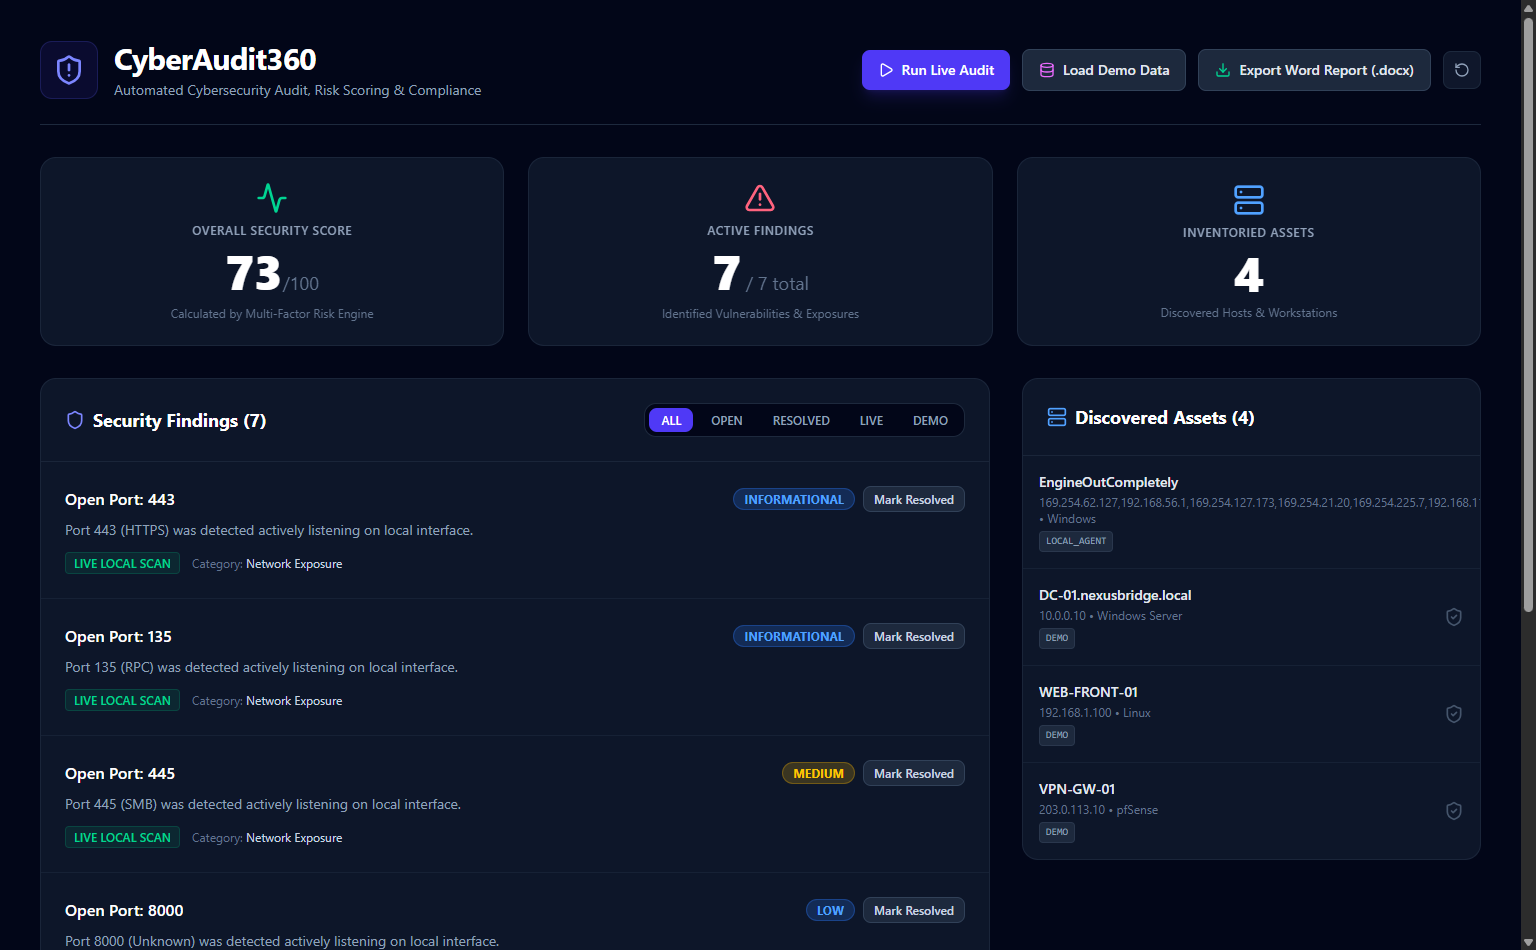
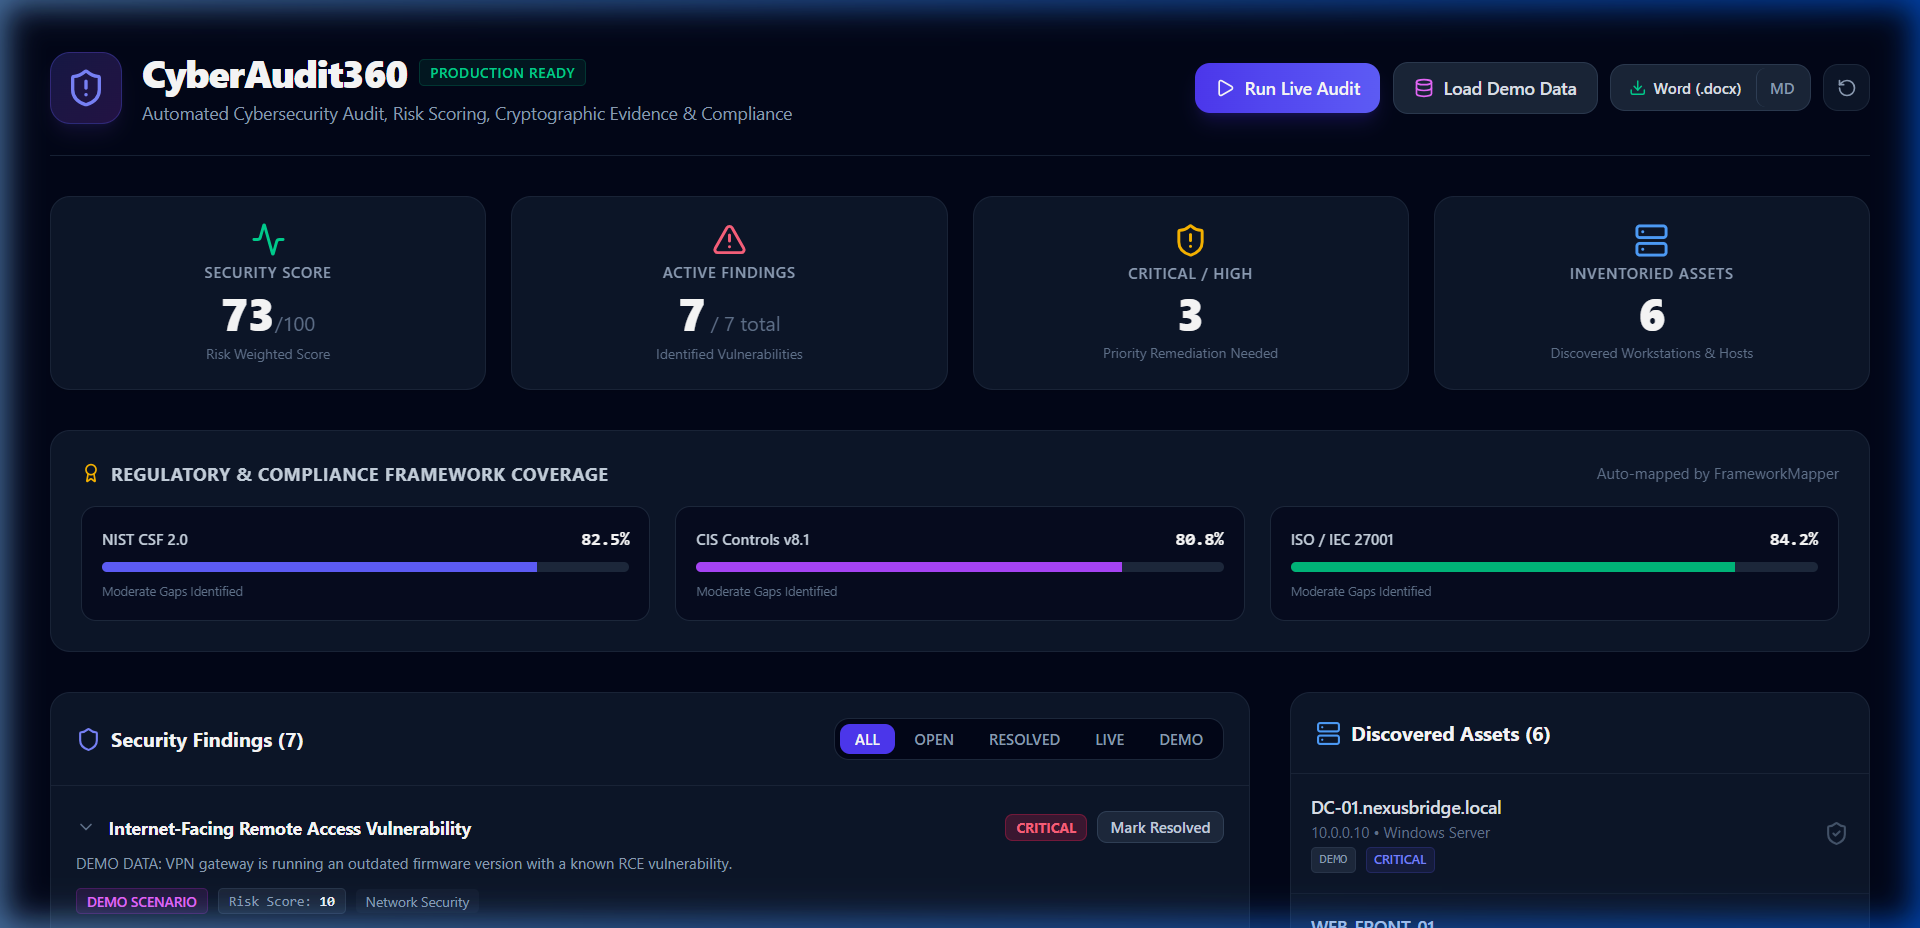
docs(readme): update dashboard screenshots and document modular architecture

diff --git a/README.md b/README.md
@@ -6,30 +6,40 @@
 [![React](https://img.shields.io/badge/frontend-React%2019%20%2B%20Vite-61DAFB.svg?logo=react&logoColor=black)](https://react.dev/)
 [![Tailwind CSS](https://img.shields.io/badge/styling-TailwindCSS%20v4-38B2AC.svg?logo=tailwindcss&logoColor=white)](https://tailwindcss.com/)
 [![Word Export](https://img.shields.io/badge/reporting-DOCX%20%26%20Markdown-2B579A.svg?logo=microsoftword&logoColor=white)](https://python-docx.readthedocs.io/)
-[![Tests](https://img.shields.io/badge/tests-7%20passing%20(pytest)-brightgreen.svg?logo=pytest&logoColor=white)](https://docs.pytest.org/)
+[![Tests](https://img.shields.io/badge/tests-24%20passing%20(pytest)-brightgreen.svg?logo=pytest&logoColor=white)](https://docs.pytest.org/)
 [![License: MIT](https://img.shields.io/badge/License-MIT-yellow.svg)](https://opensource.org/licenses/MIT)
 
 ---
 
-## 📸 Platform Dashboard
+## 📸 Platform Dashboard & Interface Preview
 
-<!-- ================================================================= -->
-<!--                    DASHBOARD SCREENSHOT PREVIEW                   -->
-<!--  You can replace 'docs/screenshots/dashboard.png' with your own   -->
-<!--  image anytime. The project includes a live capture below.        -->
-<!-- ================================================================= -->
-
+### 1. Interactive SOC Security Dashboard
 <p align="center">
-  <img src="docs/screenshots/dashboard.png" alt="CyberAudit360 SOC Dashboard" width="90%" style="border-radius: 12px; box-shadow: 0 10px 30px rgba(0,0,0,0.5);" />
+  <img src="docs/screenshots/dashboard.png" alt="CyberAudit360 SOC Dashboard" width="95%" style="border-radius: 12px; box-shadow: 0 10px 30px rgba(0,0,0,0.5);" />
+</p>
+<p align="center">
+  <em>Figure 1: CyberAudit360 Interactive SOC Dashboard featuring real-time 0–100 Security Scoring, compliance framework progress (NIST CSF 2.0, CIS v8.1, ISO 27001), active findings, and inventoried assets.</em>
 </p>
 
+<br />
+
+### 2. Deep Finding Inspection & Multi-Factor Risk Breakdown
 <p align="center">
-  <em>Figure 1: CyberAudit360 Interactive SOC Dashboard featuring real-time 0–100 Security Scoring, Live Local Scan badging, and automated findings management.</em>
+  <img src="docs/screenshots/finding_details.png" alt="Finding Inspection and Remediation Guidance" width="95%" style="border-radius: 12px; box-shadow: 0 10px 30px rgba(0,0,0,0.5);" />
+</p>
+<p align="center">
+  <em>Figure 2: Expanded vulnerability inspection displaying CVSS base score, business criticality, severity badging, and prioritized remediation guidance.</em>
 </p>
 
-> 💡 **Tip for Adding More Screenshots:**  
-> Place your images in [`docs/screenshots/`](docs/screenshots/) (e.g., `word_report_sample.png`, `terminal_run.png`) and link them using standard markdown syntax:  
-> `![Description](docs/screenshots/your-image.png)`
+<br />
+
+### 3. Interactive Remediation & Dynamic Posture Uplift
+<p align="center">
+  <img src="docs/screenshots/remediation_workflow.png" alt="Remediation Workflow and Dynamic Score Uplift" width="95%" style="border-radius: 12px; box-shadow: 0 10px 30px rgba(0,0,0,0.5);" />
+</p>
+<p align="center">
+  <em>Figure 3: Marking a critical finding as Resolved immediately updates the overall security posture (73 → 88 score boost) and recalculates compliance framework coverage in real time.</em>
+</p>
 
 ---
 
@@ -67,32 +77,42 @@ CyberAudit360 is built on a modular decoupled architecture dividing defensive sc
 
 ```mermaid
 flowchart TD
-    subgraph Frontend["Frontend Layer (React 19 + Vite + Tailwind v4)"]
-        UI["SOC Dashboard UI"]
-        Controls["Actions: Run Audit | Load Demo | Export Word | Resolve"]
-        Filters["Severity & Classification Filters"]
+    subgraph Frontend["Frontend Layer (React 19 + TypeScript + Vite + Tailwind v4)"]
+        direction TB
+        HeaderComp["Header (Actions, Status, Word & MD Exports)"]
+        MetricComp["MetricCards (Score 0-100, Findings, Assets)"]
+        ComplianceComp["ComplianceCoverageWidget (NIST, CIS, ISO)"]
+        FindingComp["FindingCard (Severity, CVSS, Evidence, Remediation)"]
+        AssetComp["AssetList (Discovered Hosts & Workstations)"]
+        ApiService["Centralized API Client (services/api.ts)"]
+        
+        HeaderComp --> ApiService
+        MetricComp --> ApiService
+        ComplianceComp --> ApiService
+        FindingComp --> ApiService
+        AssetComp --> ApiService
     end
 
-    subgraph Backend["Backend API Layer (FastAPI + SQLAlchemy)"]
+    subgraph Backend["Backend API Layer (FastAPI + SQLAlchemy + Pydantic v2)"]
         Router["REST API Router (/api)"]
         
-        subgraph Engines["Core Analytical & Scanning Engines"]
-            InventoryEng["Inventory Engine (local_inventory.py)"]
+        subgraph Services["Decoupled Analytical & Scanning Services"]
+            InventoryEng["Inventory Service (inventory_service.py)"]
             PortScanEng["Port Scanner (port_scanner.py)"]
             RiskEng["Risk Engine (risk_engine.py)"]
             ComplianceEng["Framework Mapper (framework_mapper.py)"]
-            ReportEng["Word Report Engine (reporting_service.py)"]
-            EvidenceEng["Evidence Integrity (evidence_service.py)"]
+            ReportEng["Word DOCX & MD Engine (reporting_service.py)"]
+            EvidenceEng["Evidence Integrity SHA-256 (evidence_service.py)"]
+            SeedEng["Enterprise Demo Seeder (seed_service.py)"]
         end
 
-        DB[(SQLite Database)]
+        DB[(SQLite Database via SQLAlchemy)]
     end
 
-    Controls -->|HTTP POST/GET/PATCH| Router
-    Router --> Engines
-    Engines --> DB
-    DB --> Router
-    Router -->|JSON / DOCX Stream| UI
+    ApiService -->|HTTP REST / JSON / DOCX Stream| Router
+    Router --> Services
+    Services --> DB
+    DB --> Services
 ```
 
 ---
@@ -172,7 +192,7 @@ Utilizes `python-docx` and low-level XML styling to dynamically compile:
 
 #### 1. Clone the Repository
 ```bash
-git clone https://github.com/<your-username>/CyberAudit360.git
+git clone https://github.com/Techmasternikhil/CyberAudit360.git
 cd CyberAudit360
 ```
 
@@ -236,14 +256,37 @@ cd backend
 python -m pytest -v
 ```
 
-### Test Coverage Results (100% Passing):
-- `tests/test_api.py::test_health_check` **PASSED**
-- `tests/test_api.py::test_get_findings_and_score` **PASSED**
-- `tests/test_api.py::test_scan_endpoint` **PASSED**
-- `tests/test_port_scanner.py::test_scan_port_closed` **PASSED**
-- `tests/test_port_scanner.py::test_scan_target` **PASSED**
-- `tests/test_risk_engine.py::test_calculate_finding_risk` **PASSED**
-- `tests/test_risk_engine.py::test_calculate_overall_security_score` **PASSED**
+### Test Coverage Results (24/24 Tests Passing, 100%):
+- **API Endpoints & Integration (`tests/test_api.py`):**
+  - `test_health_check` **PASSED**
+  - `test_get_findings_and_score` **PASSED**
+  - `test_scan_endpoint` **PASSED**
+  - `test_create_asset_success` **PASSED**
+  - `test_create_asset_duplicate_ip` **PASSED**
+  - `test_create_asset_invalid_ip` **PASSED**
+  - `test_toggle_finding_status` **PASSED**
+  - `test_toggle_finding_not_found` **PASSED**
+  - `test_seed_demo_endpoint` **PASSED**
+  - `test_reset_demo_endpoint` **PASSED**
+  - `test_report_export_docx` **PASSED**
+  - `test_report_export_md` **PASSED**
+- **Defensive Port Scanner (`tests/test_port_scanner.py`):**
+  - `test_scan_port_closed` **PASSED**
+  - `test_scan_target` **PASSED**
+- **Multi-Factor Risk Scoring Engine (`tests/test_risk_engine.py`):**
+  - `test_calculate_finding_risk` **PASSED**
+  - `test_calculate_overall_security_score` **PASSED**
+- **Evidence Integrity & SHA-256 Chain-of-Custody (`tests/test_evidence_service.py`):**
+  - `test_sha256_hash_string` **PASSED**
+  - `test_compute_evidence_hash_dict` **PASSED**
+  - `test_create_evidence_record` **PASSED**
+- **Compliance Framework Mapping (`tests/test_framework_mapper.py`):**
+  - `test_map_finding_to_frameworks` **PASSED**
+  - `test_calculate_compliance_coverage_empty` **PASSED**
+  - `test_calculate_compliance_coverage_with_findings` **PASSED**
+- **Executive Word & Markdown Reporting (`tests/test_reporting_service.py`):**
+  - `test_generate_markdown_report` **PASSED**
+  - `test_generate_docx_report` **PASSED**
 
 ---
 
